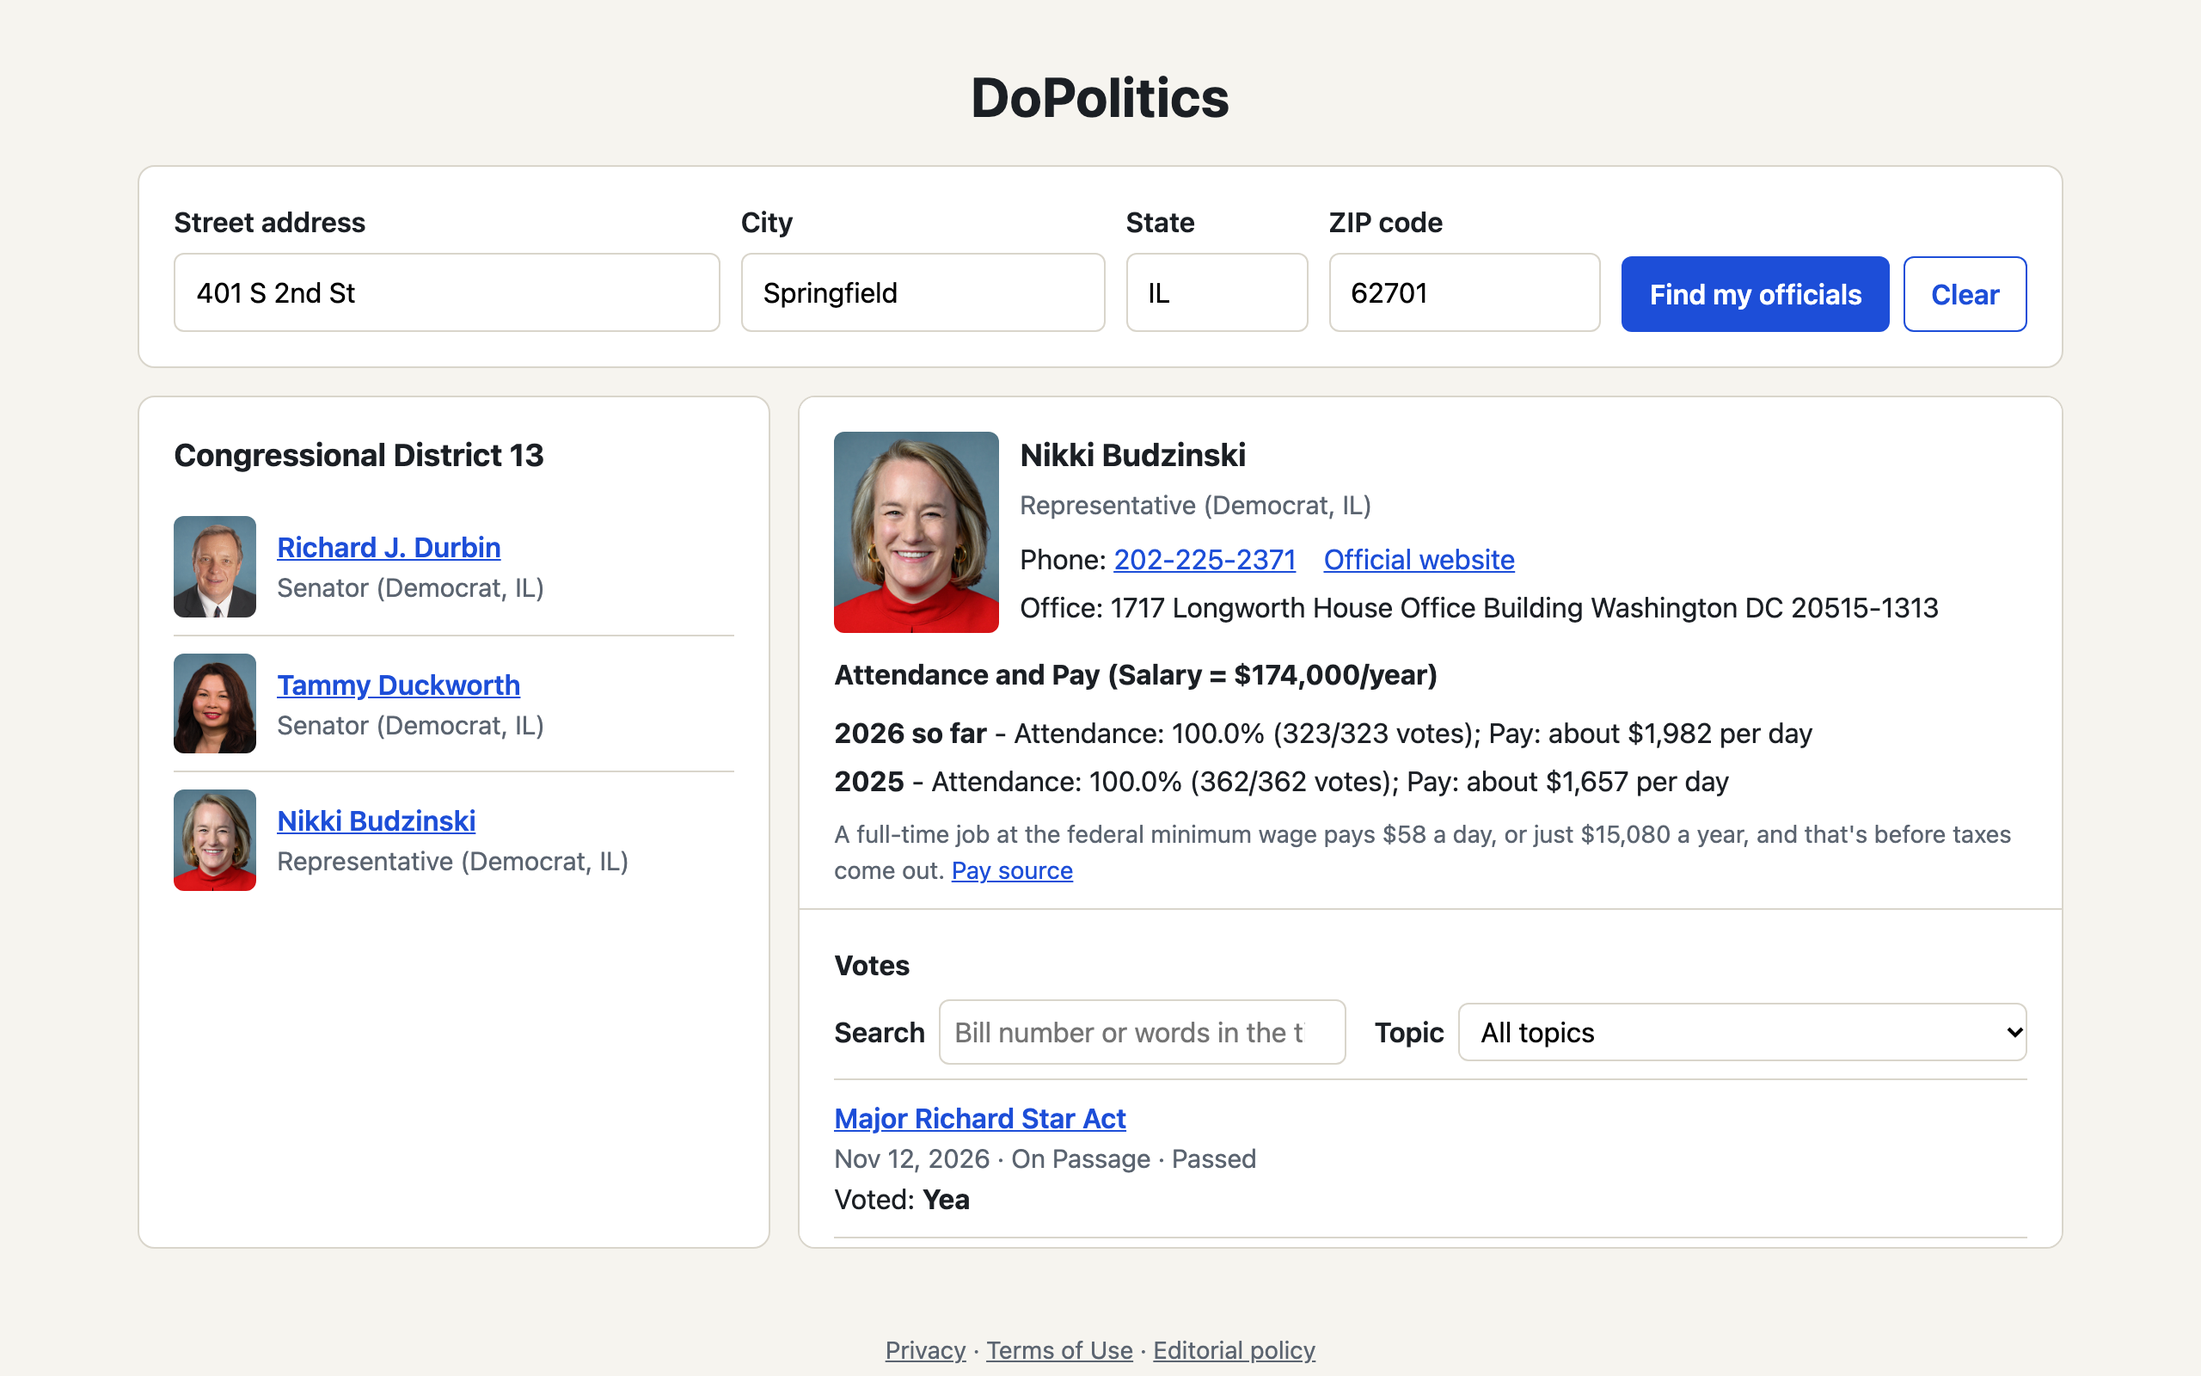
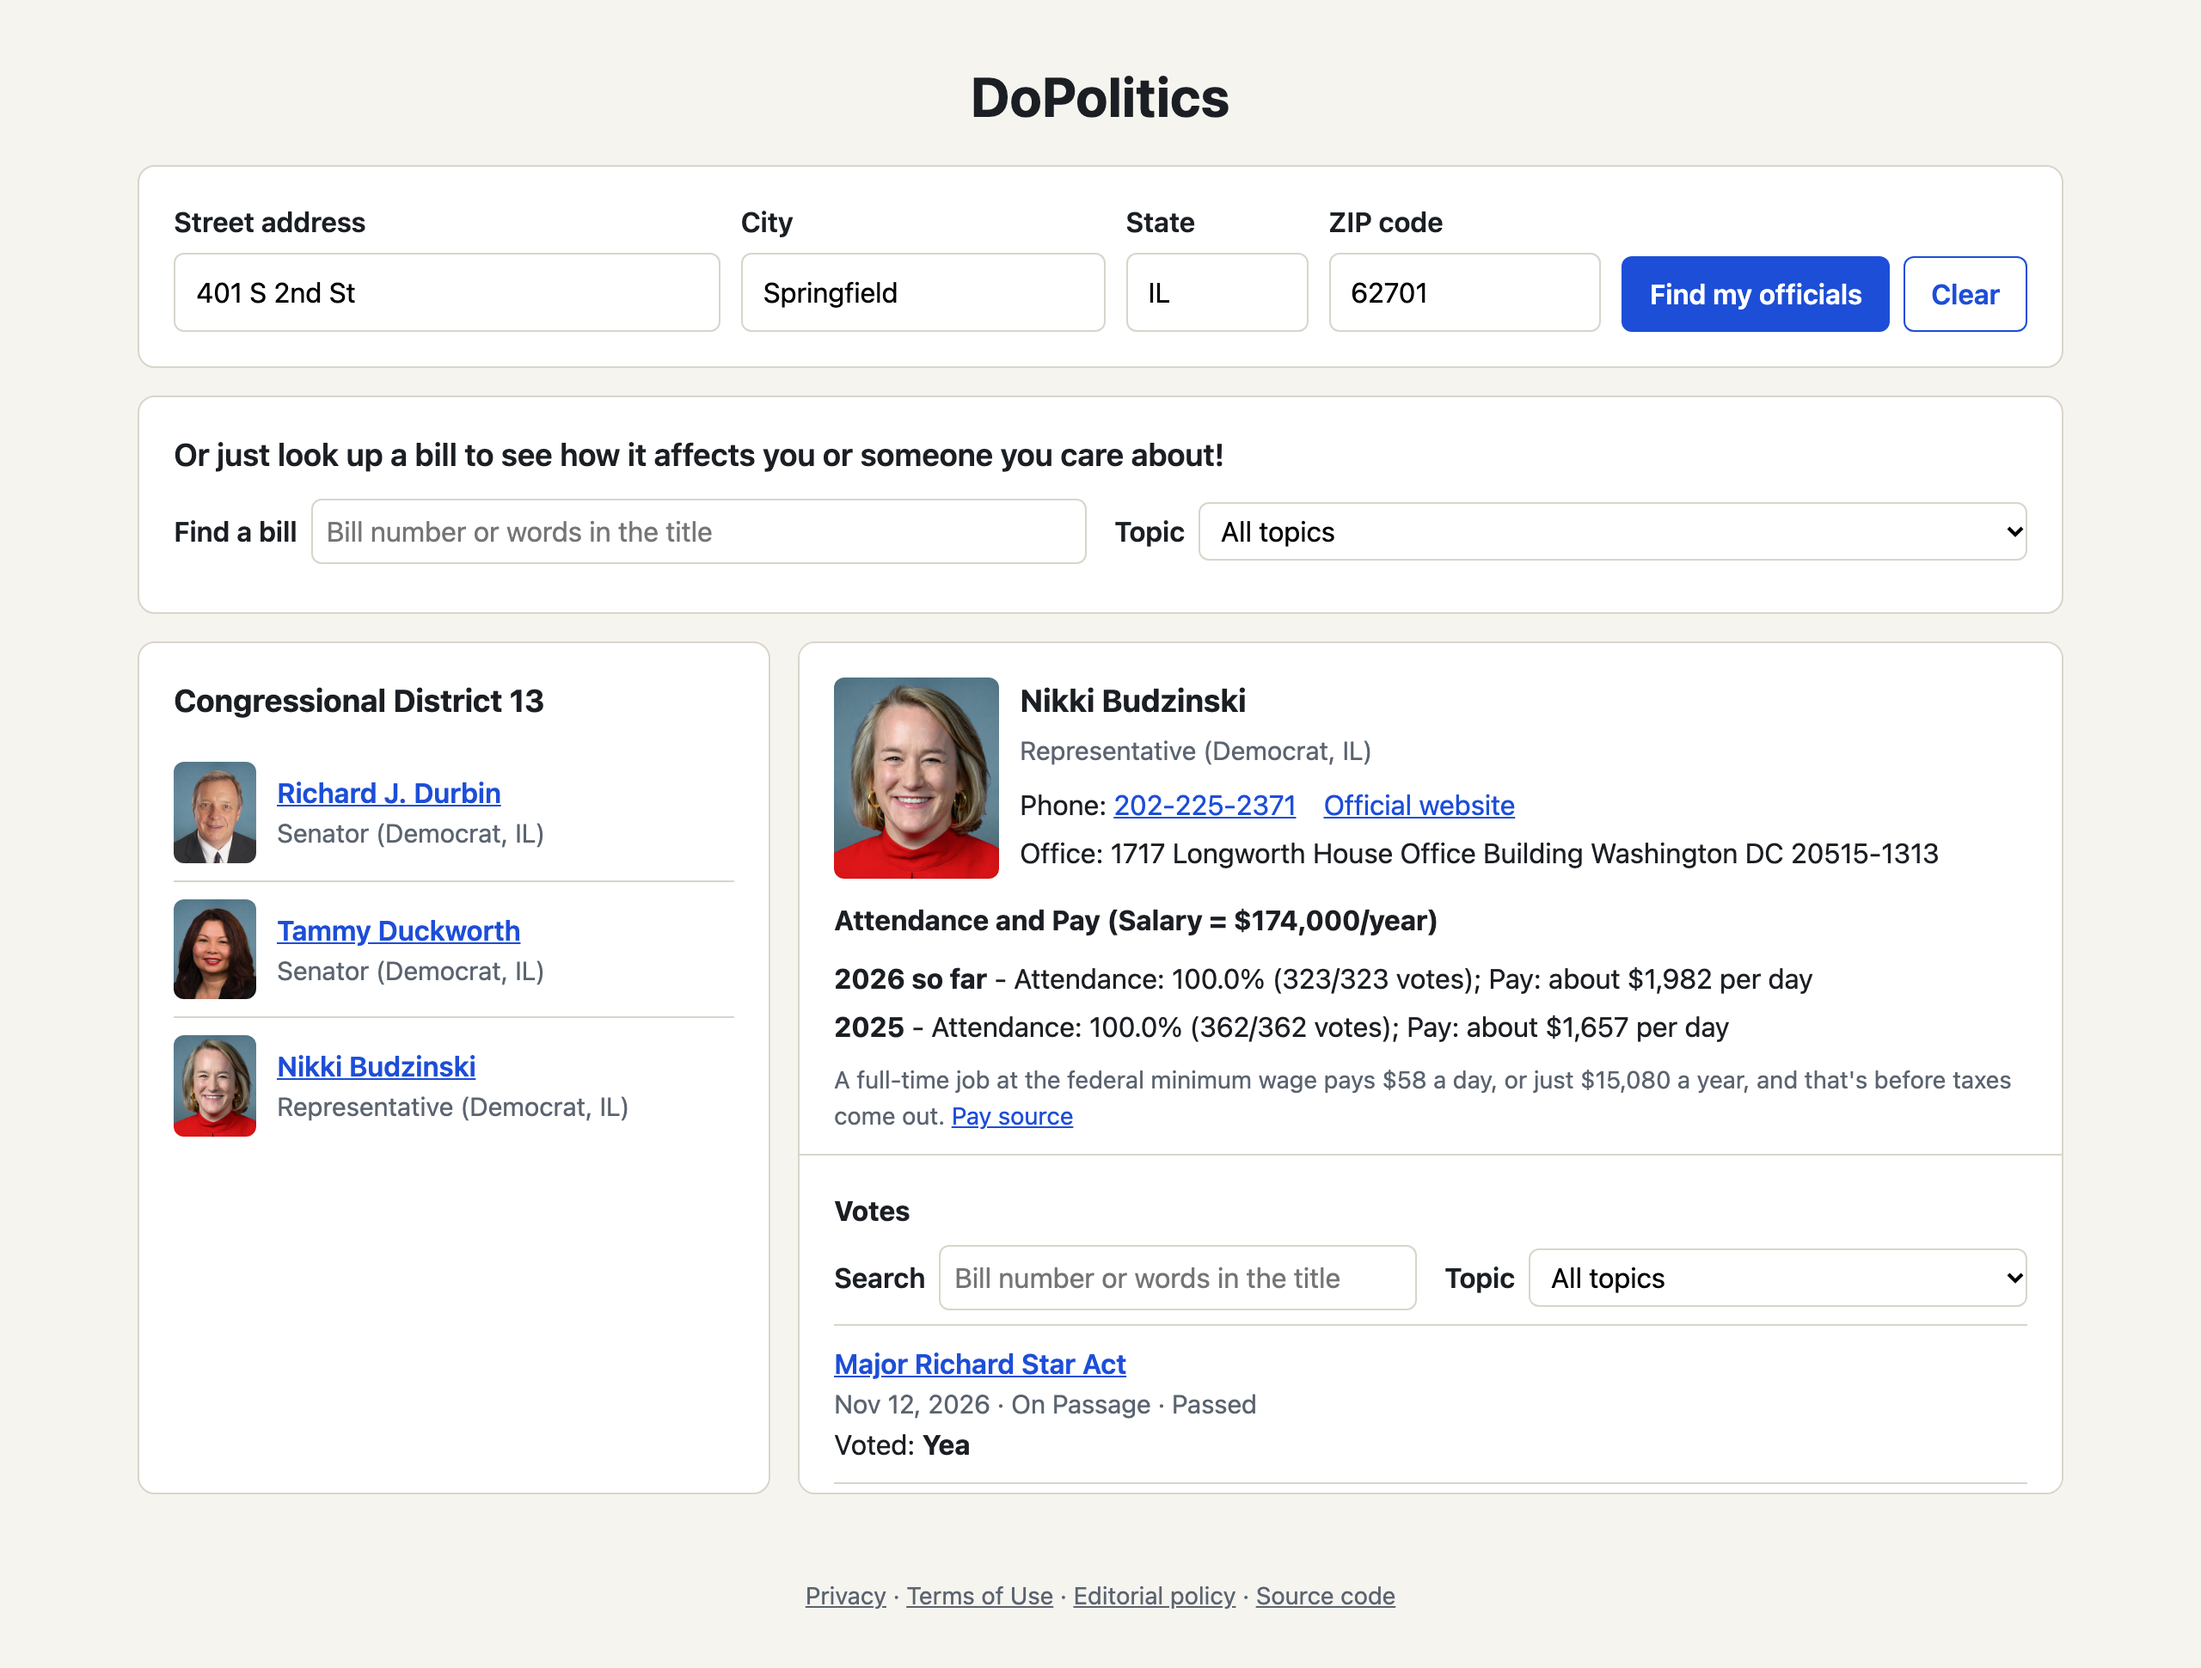
docs: refresh the README screenshot with Bill Search and the footer links (#68)
The screenshot predated the Source code link in the footer and Bill
Search. With Bill Search under the address form the page no longer fits
an 800-pixel window, so the script cut off both the title and the
footer. It now saves the whole page, title to footer.

diff --git a/scripts/screenshot.py b/scripts/screenshot.py
@@ -1,7 +1,8 @@
 """Take the screenshot used in the README and on the portfolio card.
 
 Opens the site in a real Chromium, looks up the Illinois State Capitol,
-opens the representative's tile and saves the window as a PNG.
+opens the representative's tile and saves the whole page as a PNG, from
+the title to the footer's links.
 
 Run it while the dev server is up, or point it at the live site:
     uv run python scripts/screenshot.py
@@ -44,7 +45,9 @@ def main() -> None:
         expect(member.get_by_role("heading", name="Votes")).to_be_visible()
         page.wait_for_load_state("networkidle")
 
-        page.screenshot(path=OUTPUT)
+        # The whole page, not just the window: with Bill Search under the
+        # address form, the title and the footer no longer fit in one window.
+        page.screenshot(path=OUTPUT, full_page=True)
         browser.close()
 
     print(f"Saved {OUTPUT}")

diff --git a/README.md b/README.md
@@ -8,7 +8,7 @@ DoPolitics takes a street address and returns every federal official who represe
 
 **Status:** live at **[dopolitics.org](https://dopolitics.org)** since November 15, 2026. Enter a street address and see your two senators and your representative, how often each one shows up to vote and what they're paid, their recent roll call votes, and the bill behind each vote with its official summary. It runs on Render: a FastAPI web service, a managed Postgres database with PostGIS, and six cron jobs that pull new votes, bills and members from government sources on a schedule.
 
-![DoPolitics showing the officials for the Illinois State Capitol and the representative's attendance, pay and recent votes](docs/screenshot.png)
+![DoPolitics showing Bill Search, the officials for the Illinois State Capitol, and the representative's attendance, pay and recent votes](docs/screenshot.png)
 
 **Stance:** This is a project to illustrate how politics affects all of us, and that conservative representation often creates or exacerbates problems rather than solving them. It may be labeled a progressive project, but the reality is that the GOP has controlled all three branches of government from January 20, 2025 until the 2026 midterms, and no one's life has gotten better. Its data comes from official government sources, and every summary links to the record it summarizes.
 
@@ -131,7 +131,7 @@ The database listens on `127.0.0.1:5433` by default, so it doesn't collide with 
 
 The image is built from `db/Dockerfile`: the official `postgres:18` image plus the PostGIS packages. The official `postgis/postgis` image has no arm64 build, so building our own keeps it native on Apple silicon.
 
-To refresh the screenshot at the top of this README, run `uv run python scripts/screenshot.py` while the dev server is up (or add `https://dopolitics.org` to shoot the live site). It drives a real Chromium through a lookup for the Illinois State Capitol and saves `docs/screenshot.png`.
+To refresh the screenshot at the top of this README, run `uv run python scripts/screenshot.py` while the dev server is up (or add `https://dopolitics.org` to shoot the live site). It drives a real Chromium through a lookup for the Illinois State Capitol and saves the whole page, title to footer, as `docs/screenshot.png`.
 
 To stop the database, run `docker compose down`. Data is kept in a named volume. To delete the data as well, run `docker compose down -v`.
 
